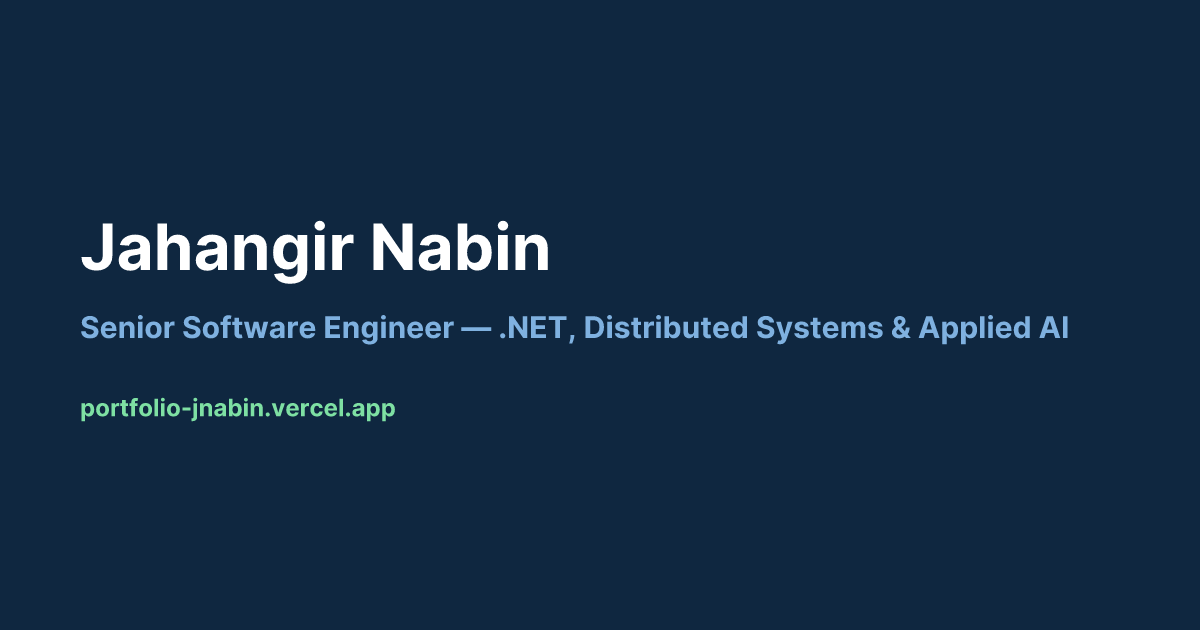
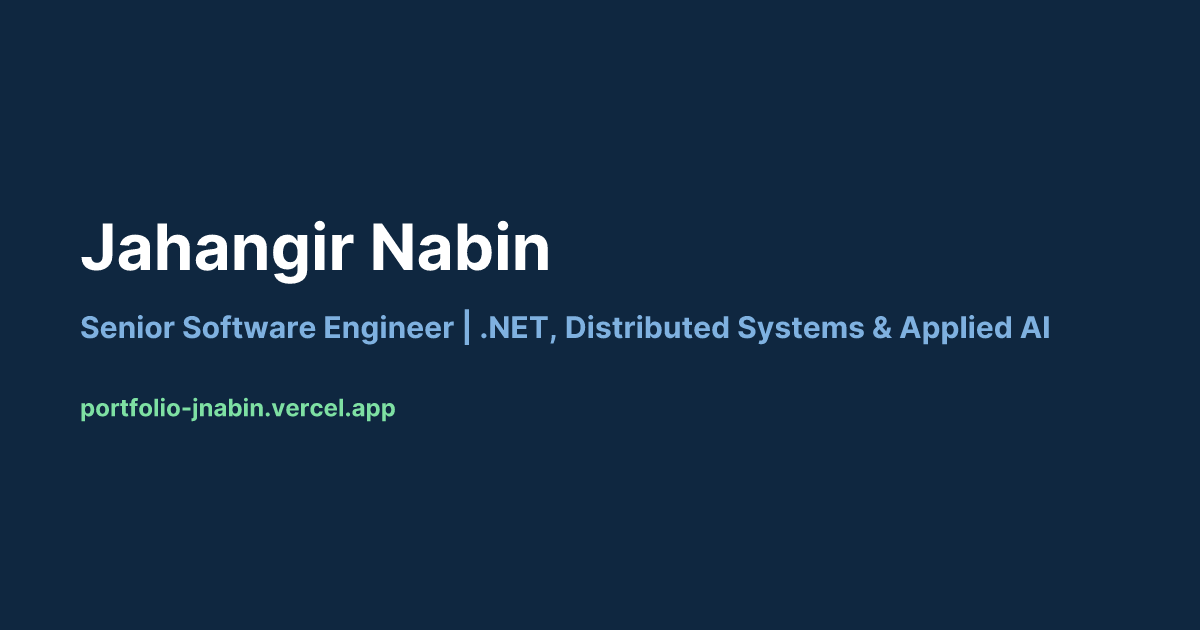
chore: replace em dashes across the site with plain punctuation

Changed region(s): [[0.37, 0.4825, 0.8942, 0.5429]]

diff --git a/content/site.ts b/content/site.ts
@@ -17,9 +17,9 @@ type ExperienceItem = {
 
 export const site = {
   name: "Jahangir Alam Nabin",
-  headline: "Senior Software Engineer — .NET, Distributed Systems & Applied AI",
+  headline: "Senior Software Engineer | .NET, Distributed Systems & Applied AI",
   intro:
-    "I build backend platforms and AI systems that ship — from multi-tenant SaaS to a production-grade RAG chatbot for a global automotive client — and I'm just as at home on IBM z/OS mainframes: JCL, CICS, REXX, and z/OS-to-cloud integration. Currently leading a 6-developer team at Brain Station 23, and shipping my own Android app, Family Nearby, on a Go backend.",
+    "I build backend platforms and AI systems that ship, from multi-tenant SaaS to a production-grade RAG chatbot for a global automotive client. I'm just as at home on IBM z/OS mainframes: JCL, CICS, REXX, and z/OS-to-cloud integration. Currently leading a 6-developer team at Brain Station 23, and shipping my own Android app, Family Nearby, on a Go backend.",
   heroStat: { value: "100%", label: "Upwork Job Success · 2,439 hrs · Top Rated" },
   introVideo: {
     youtubeId: "NOW9dUA7OOM",
@@ -34,8 +34,8 @@ export const site = {
     upwork: "https://www.upwork.com/freelancers/~014a55b53d36d618d6",
   },
   evidence: [
-    { label: "Team led day-to-day", value: "6 developers — presales, estimation, releases" },
-    { label: "Platforms architected", value: "2 — compliance SaaS & automotive AI" },
+    { label: "Team led day-to-day", value: "6 developers: presales, estimation, releases" },
+    { label: "Platforms architected", value: "2: compliance SaaS & automotive AI" },
     { label: "Client contracts delivered", value: "20 at 100% Job Success · Top Rated" },
     { label: "Chatbot finds the right manual section", value: "96.9% → 100% of test questions" },
     { label: "Chatbot procedure answers", value: "2× faster · 8.5 s → 3.9 s" },
@@ -50,12 +50,12 @@ export const site = {
   howIRun: [
     {
       title: "Team leadership",
-      body: "I lead a 6-developer team at Brain Station 23 — planning, reviews and releases. Earlier I guided 2 intern developers at Democratik.",
+      body: "I lead a 6-developer team at Brain Station 23: planning, reviews and releases. Earlier I guided 2 intern developers at Democratik.",
       evidence: "11-service platform delivered under my leadership",
     },
     {
       title: "Presales",
-      body: "Presales for enterprise .NET and AI engagements — solution outlines, effort estimates and proposals that turn briefs into funded projects.",
+      body: "Presales for enterprise .NET and AI engagements: solution outlines, effort estimates and proposals that turn briefs into funded projects.",
       evidence: "Presales · requirement analysis · estimation · releases",
     },
     {
@@ -65,7 +65,7 @@ export const site = {
     },
     {
       title: "Architecture planning across projects",
-      body: "Architect of a multi-tenant compliance SaaS (CQRS, 54 modules) and an automotive AI platform — plus an 11-service modular monolith with Kafka outbox.",
+      body: "Architect of a multi-tenant compliance SaaS (CQRS, 54 modules) and an automotive AI platform, plus an 11-service modular monolith with Kafka outbox.",
       evidence: "413 REST endpoints · MCP tool loop · 2× faster answers",
     },
     {
@@ -82,7 +82,7 @@ export const site = {
   mainframe: [
     {
       title: "IBM Cloud Wazi port",
-      body: "Ported and extended an open-source COBOL/CICS/DB2 airline system to a fresh z/OS 3.1 instance on IBM Cloud Wazi — VPN networking to green screen, 30+ errors diagnosed. Demonstrated at a conference in Japan.",
+      body: "Ported and extended an open-source COBOL/CICS/DB2 airline system to a fresh z/OS 3.1 instance on IBM Cloud Wazi, from VPN networking to green screen, 30+ errors diagnosed. Demonstrated at a conference in Japan.",
       evidence: "6 CICS + 3 batch programs · 10 DB2 tables",
     },
     {
@@ -92,7 +92,7 @@ export const site = {
     },
     {
       title: "The toolbox",
-      body: "JCL, CICS, BMS, COBOL, DB2, REXX, BPXBATCH/USS, EBCDIC conversion, Zowe CLI, TN3270 — modern engineering discipline applied to big iron.",
+      body: "JCL, CICS, BMS, COBOL, DB2, REXX, BPXBATCH/USS, EBCDIC conversion, Zowe CLI, TN3270: modern engineering discipline applied to big iron.",
       evidence: "Two written-up case studies",
     },
   ],
@@ -147,7 +147,7 @@ export const site = {
       ],
     },
     {
-      title: "Software Engineer — .NET & Angular",
+      title: "Software Engineer (.NET & Angular)",
       company: "SkyTech Solutions (Codezzi), Dhaka",
       dates: "Jan 2025 – Jul 2025",
       lines: [
@@ -156,7 +156,7 @@ export const site = {
       ],
     },
     {
-      title: "Software Engineer — .NET & Angular",
+      title: "Software Engineer (.NET & Angular)",
       company: "Freightoscope, FL, USA (Remote)",
       dates: "Jan 2022 – Present",
       note: "Full-time to Feb 2025; part-time consulting since.",
@@ -166,7 +166,7 @@ export const site = {
       ],
     },
     {
-      title: "Software Engineer — .NET (Part-time)",
+      title: "Software Engineer (.NET, part-time)",
       company: "Quadiro Technologies LLP (Remote)",
       dates: "Nov 2021 – Jun 2022",
       lines: [
@@ -175,7 +175,7 @@ export const site = {
       ],
     },
     {
-      title: "Full-Stack Developer — Node.js & Angular",
+      title: "Full-Stack Developer (Node.js & Angular)",
       company: "Democratik, Laval, Canada (Remote)",
       dates: "Dec 2020 – Jan 2022",
       lines: [
@@ -184,7 +184,7 @@ export const site = {
       ],
     },
     {
-      title: "Software Developer Intern — .NET",
+      title: "Software Developer Intern (.NET)",
       company: "Code Source, Dhaka",
       dates: "Sep 2020 – Dec 2020",
       lines: [
@@ -204,7 +204,7 @@ export const site = {
   ],
   beyond: [
     "Independent freelance record: Top Rated, 100% Job Success across 20 contracts and 2,439 logged hours.",
-    "Family Nearby — my own family location-sharing app: Android + Go, built solo with Claude Code, now in Google Play review.",
+    "Family Nearby: my own family location-sharing app: Android + Go, built solo with Claude Code, now in Google Play review.",
     "Ship complete products solo: a licensed cross-platform desktop app with fail-closed Ed25519 entitlements.",
   ],
   education: {

diff --git a/app/projects/page.tsx b/app/projects/page.tsx
@@ -14,15 +14,15 @@ export const metadata: Metadata = {
 const moreWork = [
   { title: "AI-powered Google Ads platform", note: "Campaign management with ChatGPT-assisted suggestions, Angular Material UI, i18n, white-label." },
   { title: "Yodlee financial-data integration", note: "Clean Architecture/CQRS .NET service integrating Yodlee aggregation APIs with token-based auth and normalized PostgreSQL persistence." },
-  { title: "Full-stack realtime chat platform", note: "Self-authored end to end: Angular + Material front end, Node/Express + MySQL API, Pusher realtime — DMs, groups, threads, reactions, file uploads." },
+  { title: "Full-stack realtime chat platform", note: "Self-authored end to end: Angular + Material front end, Node/Express + MySQL API, Pusher realtime: DMs, groups, threads, reactions, file uploads." },
   { title: "AI voice calling for a real-estate CRM", note: "Angular embed for Follow Up Boss placing outbound Retell AI voice-agent calls with dynamic LLM variables, writing outcomes back to the CRM." },
   { title: "LLM-powered website extraction API", note: ".NET 9 Web API pairing AngleSharp parsing with the OpenAI API to return structured business data from any URL." },
-  { title: "Workplace-safety signage SaaS", note: "Maintained and extended an ISO 7010 safety-poster platform — Angular Universal SSR, NgRx, drag-and-drop poster editor, Stripe subscriptions." },
-  { title: "Esports wagering platform", note: "Full-stack development on a 1v1/5v5 matchmaking product — Node/Express + MongoDB, Socket.IO realtime, token economy, twin Angular player/admin apps." },
+  { title: "Workplace-safety signage SaaS", note: "Maintained and extended an ISO 7010 safety-poster platform: Angular Universal SSR, NgRx, drag-and-drop poster editor, Stripe subscriptions." },
+  { title: "Esports wagering platform", note: "Full-stack development on a 1v1/5v5 matchmaking product: Node/Express + MongoDB, Socket.IO realtime, token economy, twin Angular player/admin apps." },
   { title: "Member portal & campaign websites", note: "Angular self-service portal (memberships, renewals, recurring donations, event tickets) plus bilingual campaign sites for Canadian politicians." },
   { title: "Appointment scheduler", note: "Angular + Material calendar booking app with lazy-loaded feature modules and reactive forms, deployed on Firebase Hosting." },
   { title: "Review-request micro-SaaS", note: "ASP.NET Core MVC tool giving businesses branded landing pages that funnel customers to Google and Facebook reviews." },
-  { title: "FarmNet (internship)", note: "Agro-fintech platform connecting farmers, consumers, and investors — ASP.NET Core MVC." },
+  { title: "FarmNet (internship)", note: "Agro-fintech platform connecting farmers, consumers, and investors, built with ASP.NET Core MVC." },
 ];
 
 export default function ProjectsPage() {
@@ -31,7 +31,7 @@ export default function ProjectsPage() {
     <div className="mx-auto max-w-5xl px-4 py-14 sm:px-6">
       <h1 className="text-3xl font-extrabold text-fg">Projects</h1>
       <p className="mt-2 max-w-2xl text-fg-muted">
-        Deep dives with architecture and measured results — including two IBM z/OS engagements — plus smaller work worth a mention.
+        Deep dives with architecture and measured results, including two IBM z/OS engagements, plus smaller work worth a mention.
       </p>
       <h2 className="mt-10 mb-4 text-xl font-extrabold text-fg">Case studies</h2>
       <div className="grid gap-4 sm:grid-cols-2">

diff --git a/app/mainframe/page.tsx b/app/mainframe/page.tsx
@@ -16,7 +16,7 @@ export const metadata: Metadata = {
 const capabilities = [
   {
     title: "IBM z/OS & JCL",
-    body: "Dataset allocation, compile-bind-deploy JCL, APF-authorization and 80-column pitfalls, SDSF-driven debugging — 20+ jobs written for one deployment alone.",
+    body: "Dataset allocation, compile-bind-deploy JCL, APF-authorization and 80-column pitfalls, SDSF-driven debugging. 20+ jobs written for one deployment alone.",
     evidence: "12 PDS datasets · 20+ JCL jobs",
   },
   {
@@ -36,12 +36,12 @@ const capabilities = [
   },
   {
     title: "IBM Cloud Wazi",
-    body: "Provisioned and ran z/OS 3.1 Dev/Test on IBM Cloud VPC — OpenVPN access, security groups, z/OSMF on a non-standard port.",
+    body: "Provisioned and ran z/OS 3.1 Dev/Test on IBM Cloud VPC: OpenVPN access, security groups, z/OSMF on a non-standard port.",
     evidence: "Clean instance → working CICS app",
   },
   {
     title: "Zowe tooling",
-    body: "Zowe CLI over z/OSMF REST for uploads, job submission and spool retrieval — codepage-safe transfers that ended a whole class of EBCDIC bugs.",
+    body: "Zowe CLI over z/OSMF REST for uploads, job submission and spool retrieval, with codepage-safe transfers that ended a whole class of EBCDIC bugs.",
     evidence: "Scripted, repeatable deployments",
   },
 ];
@@ -65,7 +65,7 @@ export default function MainframePage() {
     <div className="mx-auto max-w-5xl px-4 py-14 sm:px-6">
       <h1 className="text-3xl font-extrabold text-fg">Mainframe &amp; z/OS</h1>
       <p className="mt-2 max-w-2xl text-fg-muted">
-        Most of my work is modern .NET and AI platforms — but I also ship on big iron. I ported a
+        Most of my work is modern .NET and AI platforms, but I also ship on big iron. I ported a
         COBOL/CICS/DB2 system to IBM Cloud Wazi from a bare instance, and I consult on z/OS-to-cloud
         integration: JCL, BPXBATCH, REXX, and SFTP with proper EBCDIC handling.
       </p>

diff --git a/app/layout.tsx b/app/layout.tsx
@@ -13,8 +13,8 @@ const jbmono = JetBrains_Mono({ subsets: ["latin"], variable: "--font-jbmono" })
 export const metadata: Metadata = {
   metadataBase: new URL(SITE_URL),
   title: {
-    default: "Jahangir Nabin — Senior Software Engineer",
-    template: "%s — Jahangir Nabin",
+    default: "Jahangir Nabin | Senior Software Engineer",
+    template: "%s | Jahangir Nabin",
   },
   description:
     ".NET, distributed systems, and applied AI. Senior software engineer leading teams and shipping production RAG systems.",
@@ -22,7 +22,7 @@ export const metadata: Metadata = {
   openGraph: {
     type: "website",
     url: SITE_URL,
-    title: "Jahangir Nabin — Senior Software Engineer",
+    title: "Jahangir Nabin | Senior Software Engineer",
     description: ".NET, distributed systems, and applied AI.",
     images: ["/og/home.png"],
   },

diff --git a/components/beyond.tsx b/components/beyond.tsx
@@ -9,7 +9,7 @@ export function Beyond() {
         ))}
       </ul>
       <p className="text-sm text-fg-muted">
-        <span className="font-semibold text-fg">{site.education.degree}</span> — {site.education.school} ·{" "}
+        <span className="font-semibold text-fg">{site.education.degree}</span>, {site.education.school} ·{" "}
         {site.education.detail}
       </p>
       <p className="text-sm text-fg-muted">{site.languages}</p>

diff --git a/components/contact.tsx b/components/contact.tsx
@@ -10,7 +10,7 @@ export function Contact() {
   return (
     <div>
       <p className="max-w-xl text-fg-muted">
-        Open to senior backend and AI engineering roles — remote, international. The fastest way to reach me is email.
+        Open to senior backend and AI engineering roles: remote, international. The fastest way to reach me is email.
       </p>
       <ul className="mt-5 flex flex-wrap gap-3">
         {links.map((l) => (

diff --git a/components/json-ld.tsx b/components/json-ld.tsx
@@ -14,7 +14,7 @@ export function JsonLd() {
       },
       {
         "@type": "VideoObject",
-        name: `${site.name} — ${site.introVideo.title}`,
+        name: `${site.name}: ${site.introVideo.title}`,
         description: "A 60-second video introduction by Jahangir Alam Nabin, Senior Software Engineer.",
         thumbnailUrl: `${SITE_URL}${site.introVideo.posterSrc}`,
         uploadDate: "2026-08-05",

diff --git a/app/page.tsx b/app/page.tsx
@@ -31,7 +31,7 @@ export default function Home() {
       <Section id="evidence" title="Evidence">
         <EvidencePanel />
       </Section>
-      <Section id="how-i-run" title="How I run projects — beyond the code">
+      <Section id="how-i-run" title="How I run projects, beyond the code">
         <HowIRun />
       </Section>
       <Section id="mainframe" title="Mainframe & z/OS">
